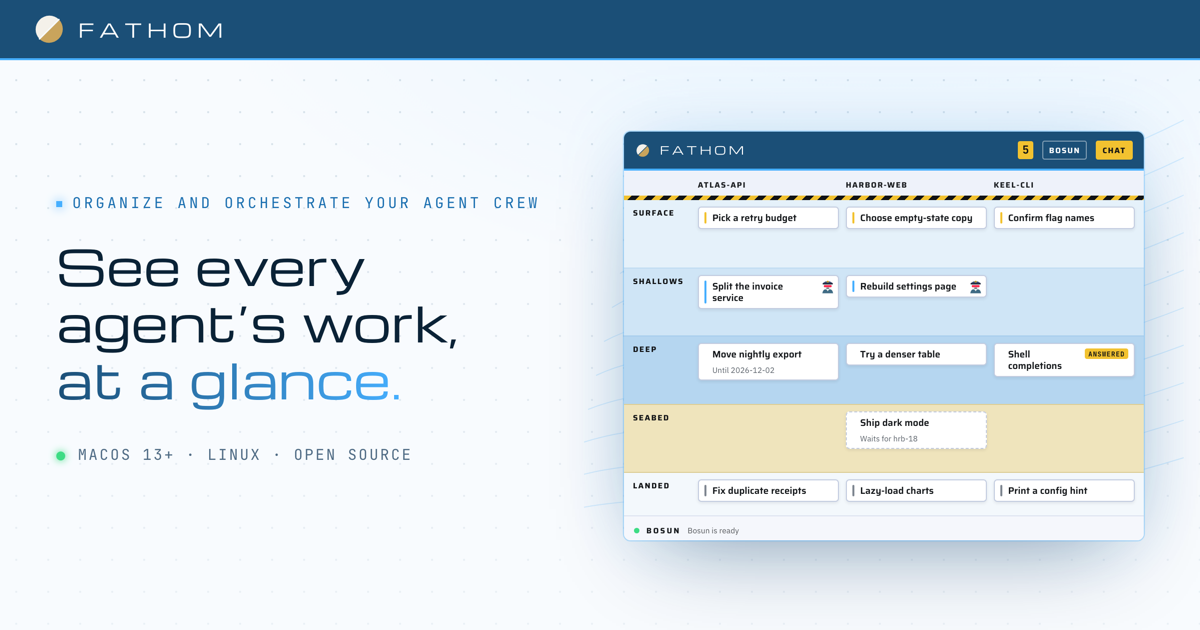
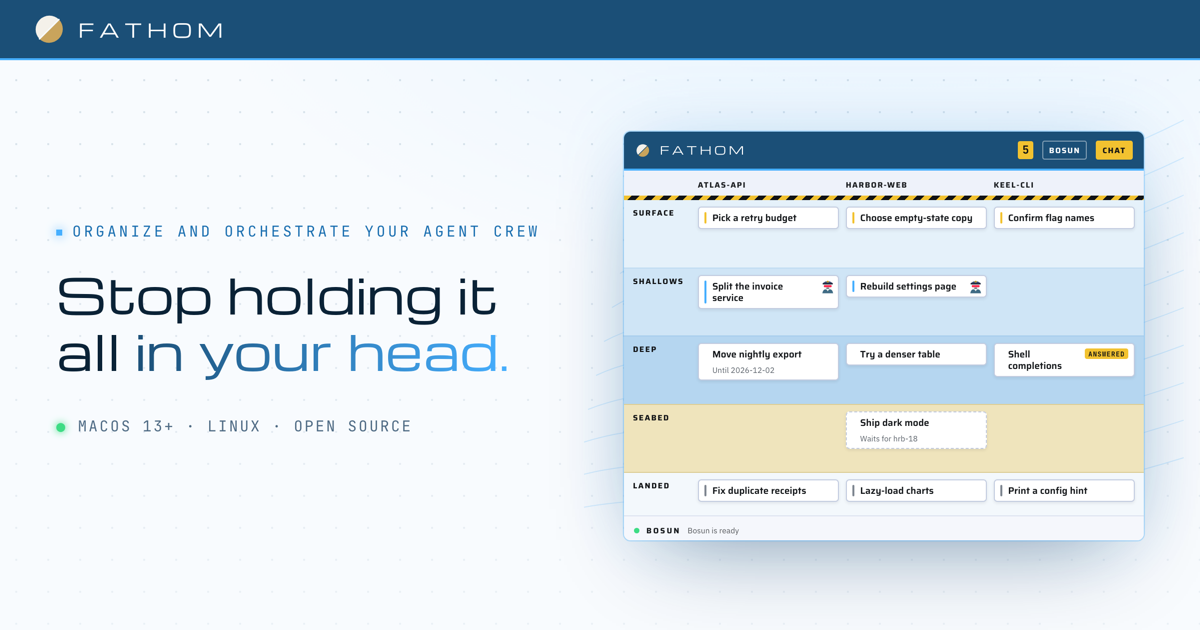
Reword the landing page around keeping track for you, and add a Why Fathom section

diff --git a/site/index.html b/site/index.html
@@ -1,4 +1,4 @@
-<!DOCTYPE html><html lang="en"><head><meta charset="utf-8"><meta name="viewport" content="width=device-width,initial-scale=1"><title>Fathom: your agents, at a glance</title><meta name="description" content="Fathom is a desktop board for watching and steering your coding agents."><link rel="icon" type="image/svg+xml" href="favicon.svg"><meta property="og:type" content="website"><meta property="og:site_name" content="Fathom"><meta property="og:title" content="Fathom: your agents, at a glance"><meta property="og:description" content="Fathom is a desktop board for watching and steering your coding agents."><link rel="canonical" href="https://fathom-tan-beta.vercel.app/"><meta property="og:url" content="https://fathom-tan-beta.vercel.app/"><meta property="og:image" content="https://fathom-tan-beta.vercel.app/og.png"><meta name="twitter:image" content="https://fathom-tan-beta.vercel.app/og.png"><meta property="og:image:width" content="1200"><meta property="og:image:height" content="630"><meta property="og:image:alt" content="Fathom: see every agent’s work, at a glance. A board of agent tasks sorted by depth."><meta name="twitter:card" content="summary_large_image"><link rel="preconnect" href="https://fonts.googleapis.com"><link rel="preconnect" href="https://fonts.gstatic.com" crossorigin><link href="https://fonts.googleapis.com/css2?family=Michroma&family=Saira:wght@400;500;600;700&family=IBM+Plex+Sans:wght@400;500;600&family=JetBrains+Mono:wght@400;700&display=swap" rel="stylesheet"><style>
+<!DOCTYPE html><html lang="en"><head><meta charset="utf-8"><meta name="viewport" content="width=device-width,initial-scale=1"><title>Fathom: your agents, at a glance</title><meta name="description" content="Fathom keeps track of your coding agents so you don’t have to: what needs you, what is moving, what is stuck and what is done, at a glance."><link rel="icon" type="image/svg+xml" href="favicon.svg"><meta property="og:type" content="website"><meta property="og:site_name" content="Fathom"><meta property="og:title" content="Fathom: stop holding it all in your head"><meta property="og:description" content="Fathom keeps track of your coding agents so you don’t have to: what needs you, what is moving, what is stuck and what is done, at a glance."><link rel="canonical" href="https://fathom-tan-beta.vercel.app/"><meta property="og:url" content="https://fathom-tan-beta.vercel.app/"><meta property="og:image" content="https://fathom-tan-beta.vercel.app/og.png"><meta name="twitter:image" content="https://fathom-tan-beta.vercel.app/og.png"><meta property="og:image:width" content="1200"><meta property="og:image:height" content="630"><meta property="og:image:alt" content="Fathom: stop holding it all in your head. A board of agent tasks sorted by depth."><meta name="twitter:card" content="summary_large_image"><link rel="preconnect" href="https://fonts.googleapis.com"><link rel="preconnect" href="https://fonts.gstatic.com" crossorigin><link href="https://fonts.googleapis.com/css2?family=Michroma&family=Saira:wght@400;500;600;700&family=IBM+Plex+Sans:wght@400;500;600&family=JetBrains+Mono:wght@400;700&display=swap" rel="stylesheet"><style>
 *{box-sizing:border-box}html{scroll-behavior:smooth}body{margin:0;font-family:'IBM Plex Sans',sans-serif;font-size:17px;line-height:1.6;-webkit-font-smoothing:antialiased}
 a{color:inherit}img,svg{display:block}
 h1,h2,h3{font-family:'Saira',sans-serif;font-weight:600;line-height:1.1;margin:0;text-wrap:balance}
@@ -191,13 +191,25 @@ body[data-scheme="bp5"] .pill{border-radius:2px}
 body[data-scheme="bp5"] .docs-nav a{font-family:'JetBrains Mono',monospace;font-size:12.5px;letter-spacing:.04em}
 body[data-scheme="bp5"] .docs-nav a:hover{border-left-color:#46afff;background:linear-gradient(90deg,rgba(70,175,255,.12),transparent)}
 body[data-scheme="bp5"] .coords::before{content:"● ";color:#3ddc84;text-shadow:0 0 8px #3ddc84}
+.why{padding:110px 32px 40px;border-top:1px solid var(--rule)}
+.why-grid{display:grid;grid-template-columns:1.25fr 1fr;gap:64px;align-items:start}
+.why h2{font-size:clamp(28px,3.2vw,40px);margin-bottom:22px}
+.why-mission{font-size:21px;line-height:1.55;color:var(--ink);max-width:32em;margin-bottom:32px}
+.why-points{display:grid;gap:14px;padding-top:44px}
+.wp{display:grid;grid-template-columns:44px 1fr;column-gap:12px;padding:18px 20px;background:var(--card);border:1px solid var(--cardbd)}
+.wp-n{grid-row:span 2;font-family:'Michroma',sans-serif;font-size:14px;color:#46afff;padding-top:4px}
+.wp h3{font-size:19px;margin:0 0 6px}.wp p{margin:0;font-size:15.5px;color:var(--muted)}
+body[data-scheme="bp5"] .why h2{font-family:'Michroma',sans-serif;font-weight:400;line-height:1.25}
+body[data-scheme="bp5"] .wp{border-radius:2px}
+body[data-scheme="bp5"] .why{background-image:linear-gradient(90deg,#46afff,transparent 30%);background-size:100% 1px;background-repeat:no-repeat}
+@media (max-width:900px){.why-grid{grid-template-columns:minmax(0,1fr);gap:24px}.why-points{padding-top:0}}
 @media (max-width:900px){.cust-grid{grid-template-columns:minmax(0,1fr)}}
 @media (max-width:900px){.hero{grid-template-columns:minmax(0,1fr);padding-left:32px;padding-right:32px;overflow-x:clip}.mb-body{position:relative;height:372px}.mb-chat{position:absolute;top:0;right:0;bottom:0;box-shadow:-8px 0 20px -12px rgba(6,20,40,.4)}.hero .mb-chat{display:none}.foot{flex-wrap:wrap;row-gap:12px}.foot .brand{flex-basis:100%}.schemes span{display:none}}
-</style></head><body id="top" data-scheme="bp5"><header class="nav"><a class="brand" href="#top"><svg width="28" height="28" viewBox="0 0 64 64" aria-hidden="true"><path class="mk-a" d="M50.38 13.62 A26 26 0 0 0 13.62 50.38 Z" fill="#F4F1EA"/><path d="M50.38 13.62 A26 26 0 0 1 13.62 50.38 Z" fill="#C9A45C"/><path d="M51.09 12.91 L12.91 51.09" style="stroke:var(--bg)" stroke-width="2.6"/></svg><b>FATHOM</b></a><a class="l" href="#how">How it works</a><a class="l" href="#customize">Customize</a><a class="l" href="#docs">Docs</a><a class="l" href="https://github.com/Uhan19/fathom">GitHub</a><a class="btn btn-primary" href="#download">Download</a></header><main>
+</style></head><body id="top" data-scheme="bp5"><header class="nav"><a class="brand" href="#top"><svg width="28" height="28" viewBox="0 0 64 64" aria-hidden="true"><path class="mk-a" d="M50.38 13.62 A26 26 0 0 0 13.62 50.38 Z" fill="#F4F1EA"/><path d="M50.38 13.62 A26 26 0 0 1 13.62 50.38 Z" fill="#C9A45C"/><path d="M51.09 12.91 L12.91 51.09" style="stroke:var(--bg)" stroke-width="2.6"/></svg><b>FATHOM</b></a><a class="l" href="#why">Why Fathom</a><a class="l" href="#how">How it works</a><a class="l" href="#customize">Customize</a><a class="l" href="#docs">Docs</a><a class="l" href="https://github.com/Uhan19/fathom">GitHub</a><a class="btn btn-primary" href="#download">Download</a></header><main>
 <section class="wrap hero"><div>
 <p class="eyebrow">Organize and orchestrate your agent crew</p>
-<h1>See every agent’s work, <em>at a glance.</em></h1>
-<p class="lede">Fathom is a desktop board for organizing and steering your coding agents. What needs you floats to the surface. Work in progress, parked work and queued work sit at their own depth, with the agent’s live terminal beside them.</p>
+<h1>Stop holding it all <em>in your head.</em></h1>
+<p class="lede">Run a few coding agents and keeping track becomes a job of its own. Fathom takes that job. Hand off work as fast as it comes to you, and Fathom lays out what needs you, what is moving, what is stuck and what is done, so you can take it in at a glance.</p>
 <div class="cta"><a class="btn btn-primary" href="#download">Download for macOS</a><a class="btn" href="#docs">Read the docs</a></div>
 <p class="coords">MACOS 13+ · LINUX · OPEN SOURCE</p>
 </div><div class="sound"><svg class="contour" viewBox="0 0 600 500" preserveAspectRatio="none" aria-hidden="true" fill="none" stroke-opacity=".2"><path d="M-20 420 C 150 380, 280 470, 620 360"/><path d="M-12 386 C 150 340, 280 440, 620 322"/><path d="M-4 352 C 150 300, 280 410, 620 284"/><path d="M4 318 C 150 260, 280 380, 620 246"/><path d="M12 284 C 150 220, 280 350, 620 208"/><path d="M20 250 C 150 180, 280 320, 620 170"/><path d="M28 216 C 150 140, 280 290, 620 132"/><path d="M36 182 C 150 100, 280 260, 620 94"/><path d="M44 148 C 150 60, 280 230, 620 56"/><path d="M52 114 C 150 20, 280 200, 620 18"/></svg><div class="mb" aria-hidden="true">
@@ -216,8 +228,18 @@ body[data-scheme="bp5"] .coords::before{content:"● ";color:#3ddc84;text-shadow
 <div class="mb-chat"><div class="mb-chat-h">FIRSTMATE</div><code>● Checked 7 projects.<br>● 5 cards need you<br>&nbsp;&nbsp;at the surface.<br>✓ ledger-sync landed<br>&nbsp;&nbsp;“Stop double-counting<br>&nbsp;&nbsp;refunds”.<br><br>&gt; ▍</code></div>
 </div>
 </div></div></section>
-<section id="how" class="wrap"><div class="sec-head how-head"><p class="eyebrow">How it works</p><h2>One board, sorted by depth</h2><p class="lede">Every task sits at the depth that matches its state, from what needs you at the surface to what has landed.</p></div>
-<div class="story"><div class="steps"><div class="step" data-step-for="surface"><p class="kicker">Surface</p><h3>What needs you floats up</h3><p>Questions and decisions from your agents rise to the top row, marked in yellow. The header counts them, so a glance tells you if anyone is waiting.</p></div><div class="step" data-step-for="shallows"><p class="kicker">Shallows</p><h3>See the work underway</h3><p>Every task an agent is working on sits in the shallows. A small sailor on a card shows a sub-agent is working on it, and its visor glows while it works. Click it to open that sub-agent’s live terminal.</p></div><div class="step" data-step-for="deep"><p class="kicker">Deep and Seabed</p><h3>Queued, parked and blocked</h3><p>The deep holds what is parked, or held until a date. The seabed holds what comes next, with any blocking tasks named on the card.</p></div><div class="step" data-step-for="move"><p class="kicker">Drag to ask</p><h3>You move cards, the agent agrees</h3><p>Drop a card in another row and Fathom asks the agent to move the task. The card waits with an Asked tag until the agent says yes, or answers with a reason.</p></div><div class="step" data-step-for="chat"><p class="kicker">Chat</p><h3>Talk to the agent beside the board</h3><p>The chat panel is the agent’s real terminal: Firstmate, Claude Code or Codex. It runs in herdr-core, so it keeps going after Fathom quits.</p></div><div class="step" data-step-for="bosun"><p class="kicker">Bosun</p><h3>Change Fathom in plain words</h3><p>Ask Bosun to show only one project, collapse columns or switch to dark mode. It uses only Fathom’s own tools and asks before risky changes.</p></div><div class="step" data-step-for="landed"><p class="kicker">Landed</p><h3>Done, newest first</h3><p>Finished work lands at the bottom with its pull request linked, so you can see what shipped today.</p></div></div><div class="stage"><div class="mb" aria-hidden="true">
+<section id="why" class="wrap why">
+<div class="why-grid">
+<div class="why-main"><p class="eyebrow">Why Fathom</p>
+<h2>Keeping track shouldn’t be your job</h2>
+<p class="why-mission">Fathom’s mission is to take the work of keeping track off your mind. Your agents do the work, Fathom keeps the picture, and you stay on top of everything without carrying it in your head.</p>
+</div>
+<div class="why-points">
+<div class="wp"><span class="wp-n">01</span><h3>Nothing to remember</h3><p>Tasks show up on the board as your agents take them on, and move as they progress. You never need to update it by hand. If you move a card yourself, the agent is asked and acknowledges it.</p></div>
+<div class="wp"><span class="wp-n">02</span><h3>Read it in a glance</h3><p>Depth tells you the state. What needs you floats up. Everything lower is already in hand.</p></div>
+<div class="wp"><span class="wp-n">03</span><h3>Keep handing off</h3><p>Give your agents the next task whenever it comes to mind. The board takes the weight, not you.</p></div>
+</div></div></section><section id="how" class="wrap"><div class="sec-head how-head"><p class="eyebrow">How it works</p><h2>Everything in its place</h2><p class="lede">Fathom sorts every task by what it needs from you. Read from the top: what needs you first, then everything that is already in hand.</p></div>
+<div class="story"><div class="steps"><div class="step" data-step-for="surface"><p class="kicker">Surface</p><h3>Only what needs you, at the top</h3><p>Questions and decisions from your agents rise to the top row, marked in yellow, and the header counts them. Everything below can wait, so you always know where your attention goes next.</p></div><div class="step" data-step-for="shallows"><p class="kicker">Shallows</p><h3>Progress without checking in</h3><p>Tasks a sub-agent is working on sit in the shallows. A small sailor marks each one, and its visor glows while it works, so you can see work moving without asking. Click it to open that sub-agent’s live terminal.</p></div><div class="step" data-step-for="deep"><p class="kicker">Deep and Seabed</p><h3>Queued, parked and blocked, out of your head</h3><p>Parked work, or work held until a date, waits in the deep. Queued work rests on the seabed, with any tasks it is waiting on named on the card. None of it is yours to remember.</p></div><div class="step" data-step-for="move"><p class="kicker">Drag to ask</p><h3>Change the plan by dragging</h3><p>Drop a card in another row and Fathom asks the agent to move the task. The card waits with an Asked tag until the agent says yes, or answers with a reason. Nothing moves without the agent knowing.</p></div><div class="step" data-step-for="chat"><p class="kicker">Chat</p><h3>Keep handing off work</h3><p>The agent’s real terminal sits beside the board: Firstmate, Claude Code or Codex. Give it the next task whenever one comes to mind. The board shows it as soon as the agent takes it on.</p></div><div class="step" data-step-for="bosun"><p class="kicker">Bosun</p><h3>Change Fathom in plain words</h3><p>Ask Bosun to show only one project, collapse columns or switch to dark mode. It uses only Fathom’s own tools and asks before risky changes.</p></div><div class="step" data-step-for="landed"><p class="kicker">Landed</p><h3>A clear record of what got done</h3><p>Finished work lands at the bottom with its pull request linked, newest first, so the end of the day has a record you didn’t have to keep.</p></div></div><div class="stage"><div class="mb" aria-hidden="true">
 <div class="mb-top"><svg width="14" height="14" viewBox="0 0 64 64" aria-hidden="true"><path class="mk-a" d="M50.38 13.62 A26 26 0 0 0 13.62 50.38 Z" fill="#F4F1EA"/><path d="M50.38 13.62 A26 26 0 0 1 13.62 50.38 Z" fill="#C9A45C"/><path d="M51.09 12.91 L12.91 51.09" stroke="#1b4f77" stroke-width="2.6"/></svg><b>FATHOM</b><span class="mb-count">5</span><span class="mb-btn">BOSUN</span><span class="mb-btn y">CHAT</span></div>
 <div class="mb-body">
 <div class="mb-board">
@@ -338,7 +360,7 @@ claude mcp add --scope user fathom -- /usr/bin/fathom --mcp</code></pre>
 <table><tbody><tr><td><kbd>⌘J</kbd> / <kbd>Ctrl+J</kbd></td><td>Open or close Bosun</td></tr><tr><td><kbd>Esc</kbd></td><td>Close a worker’s terminal</td></tr></tbody></table></article>
 </div>
 </div>
-</section></div></main><footer class="foot wrap"><a class="brand" href="#top"><svg width="20" height="20" viewBox="0 0 64 64" aria-hidden="true"><path class="mk-a" d="M50.38 13.62 A26 26 0 0 0 13.62 50.38 Z" fill="#F4F1EA"/><path d="M50.38 13.62 A26 26 0 0 1 13.62 50.38 Z" fill="#C9A45C"/><path d="M51.09 12.91 L12.91 51.09" style="stroke:var(--bg)" stroke-width="2.6"/></svg><b>FATHOM</b></a><span>Open source.</span><a href="https://github.com/Uhan19/fathom">GitHub</a><a href="#docs">Docs</a></footer><script>
+</section></div></main><footer class="foot wrap"><a class="brand" href="#top"><svg width="20" height="20" viewBox="0 0 64 64" aria-hidden="true"><path class="mk-a" d="M50.38 13.62 A26 26 0 0 0 13.62 50.38 Z" fill="#F4F1EA"/><path d="M50.38 13.62 A26 26 0 0 1 13.62 50.38 Z" fill="#C9A45C"/><path d="M51.09 12.91 L12.91 51.09" style="stroke:var(--bg)" stroke-width="2.6"/></svg><b>FATHOM</b></a><span>Your agents do the work. Fathom keeps track.</span><a href="https://github.com/Uhan19/fathom">GitHub</a><a href="#docs">Docs</a></footer><script>
 const FATHOM_LINKS = { version: "0.1.0", mac: "https://github.com/Uhan19/fathom/releases/latest/download/Fathom_universal.dmg", deb: "https://github.com/Uhan19/fathom/releases/latest/download/Fathom_amd64.deb", appimage: "https://github.com/Uhan19/fathom/releases/latest/download/Fathom_amd64.AppImage" }; // set these when the files are hosted
 (function(){
   document.querySelectorAll('[data-cfg="version"]').forEach(function(el){ if (FATHOM_LINKS.version) el.textContent = FATHOM_LINKS.version; });
